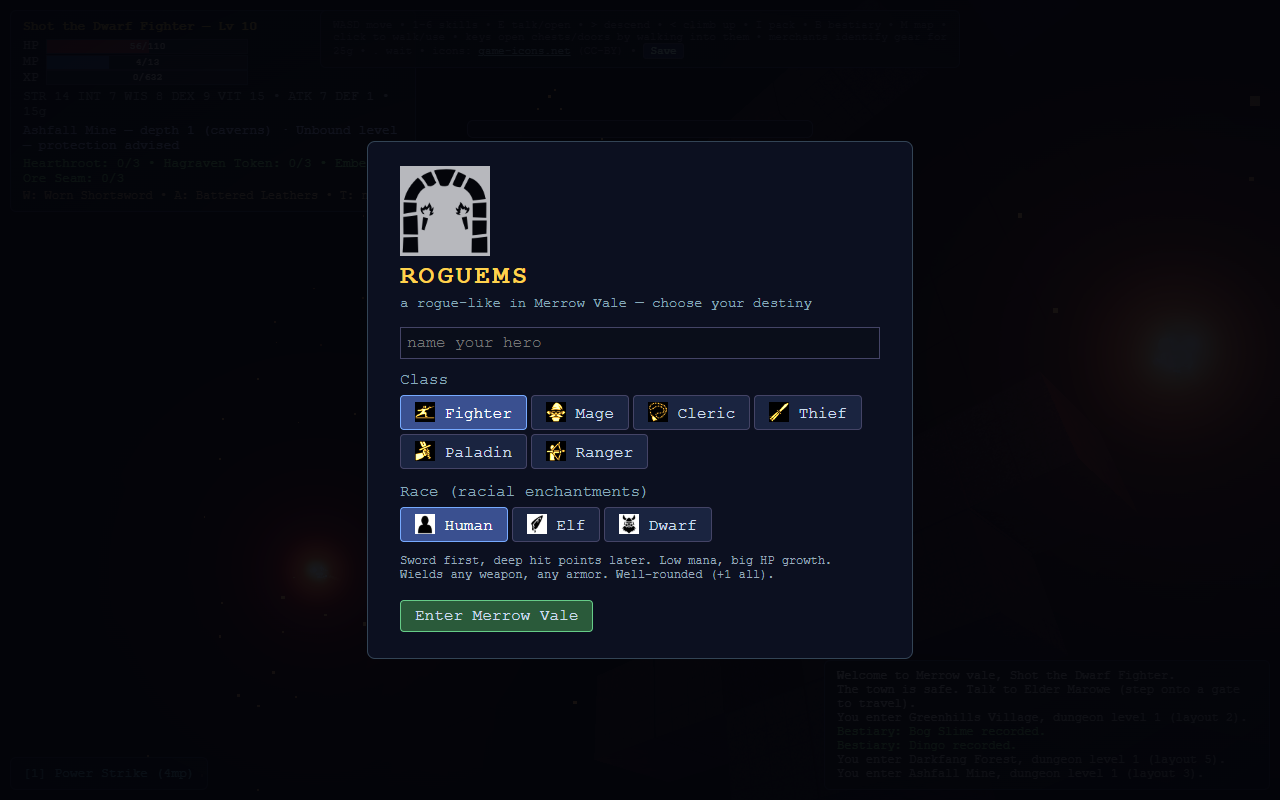
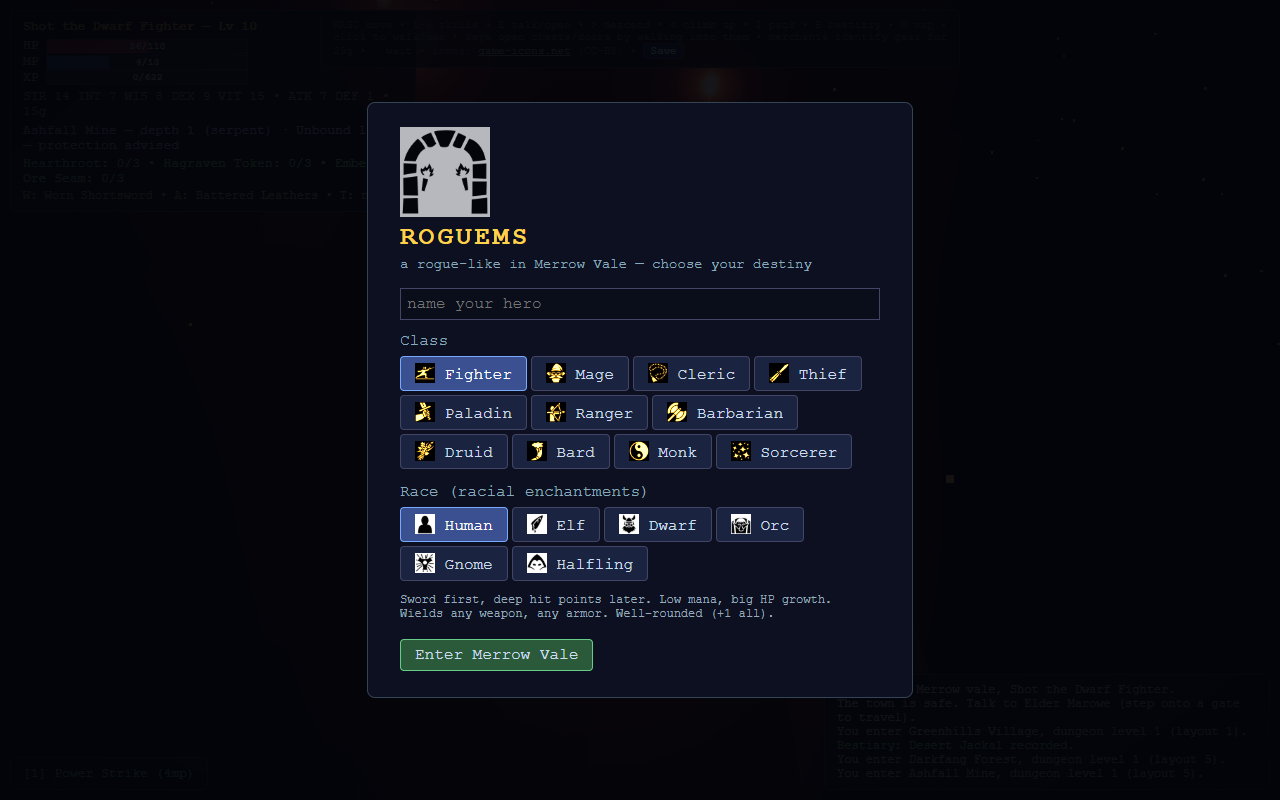
Roster expansion: 11 classes, 6 races, 21 new skills
New classes: Barbarian (deepest HP, floor-cracking melee), Druid (WIS
thorn-curses, vines, storms), Bard (inspire/lullaby/stun-song), Monk
(flurry, ki-mend, stun palm, whirlwind), Sorcerer (free blood-fire, wild
surge). All reuse the proven melee/bolt/multi-bolt/buff/self-heal verbs,
so no new engine risk.

New races: Orc (STR +2, VIT +1, INT -2, towering rig scale), Gnome
(INT +2, WIS +1, STR -2, short), Halfling (DEX +2, VIT +1, STR -2, short)
with per-race avatar stature.

- 21 new skills; multi-bolt now supports WIS-scaling + stun (Entangle,
  Storm Call, Crescendo, Dragon's Breath)
- CLASS_MODELS upgraded to per-class rigs + tints (Barbarian/Mage/Rogue/Knight)
- makePlayerVoxel applies race scale; halflings/gnomes stand shorter, orcs taller
- starter gear per class (heirloom greataxe, quarterstaff, concert razor...)
- 4 new sage tomes teach the wilder skills to any class
- fetched 3 new icons: yin-yang (monk), fist, hood (halfling)
- verify: +3 checks (roster grew to 11x6 all selectable; new-class rigs +
  orc strength + halfling stature + War Cry buff; Entangle multi-bolt stun)
  and the Rogue-roster check made a subset test; ALL 82 CHECKS PASS

Changed region(s): [[0.3125, 0.1562, 0.6875, 0.5938], [0.3125, 0.625, 0.6562, 0.8438], [0.5, 0.3125, 0.625, 0.3438]]

diff --git a/src/data.js b/src/data.js
@@ -3,7 +3,10 @@
 export const RACES = {
   human: { name: "Human", icon: "delapouite__character", enchant: { str: 1, int: 1, wis: 1, dex: 1, vit: 1 }, blurb: "Well-rounded (+1 all)." },
   elf:   { name: "Elf",   icon: "delapouite__elf-ear", enchant: { int: 2, dex: 1, vit: -1 }, blurb: "Clever and nimble, but frail (INT +2, DEX +1, VIT -1)." },
-  dwarf: { name: "Dwarf", icon: "delapouite__dwarf-face", enchant: { vit: 2, str: 1, dex: -1 }, blurb: "Stout and strong, but clumsy (VIT +2, STR +1, DEX -1)." }
+  dwarf: { name: "Dwarf", icon: "delapouite__dwarf-face", enchant: { vit: 2, str: 1, dex: -1 }, blurb: "Stout and strong, but clumsy (VIT +2, STR +1, DEX -1)." },
+  orc:     { name: "Orc",      icon: "skoll__troll",   enchant: { str: 2, vit: 1, int: -2 }, scale: 1.08, blurb: "Born of the hill tribes: crushing strength, thick blood, little patience for books (STR +2, VIT +1, INT -2)." },
+  gnome:   { name: "Gnome",    icon: "delapouite__glowing-artifact", enchant: { int: 2, wis: 1, str: -2 }, scale: 0.82, blurb: "Small hands, huge minds: tinkers and hedge-wizards (INT +2, WIS +1, STR -2)." },
+  halfling:{ name: "Halfling", icon: "lorc__hood",     enchant: { dex: 2, vit: 1, str: -2 }, scale: 0.75, blurb: "Quiet feet, quick fingers: hard to hit and harder to catch (DEX +2, VIT +1, STR -2)." }
 };
 
 export const CLASSES = {
@@ -61,6 +64,52 @@ export const CLASSES = {
     weapons: ["dagger", "sickle", "shortsword", "spear", "longsword", "shortbow", "longbow"],
     armors: ["rags", "leather", "studded"],
     blurb: "Deadly at range with a DEX-aimed shot. Bows and blades, leather only."
+  },
+  barbarian: {
+    name: "Barbarian", glyph: "@", color: "#c05a30", icon: "lorc__battle-axe",
+    base: { str: 14, int: 5, wis: 8, dex: 10, vit: 12 },
+    growth: { str: 1, vit: 1, other: 0.5 },
+    hpPer: 7, mpPer: 1, hpBase: 12,
+    skills: ["warcry", "berserk", "seismic-slam", "cleave"],
+    weapons: ["sickle", "spear", "scimitar", "longsword", "greataxe", "warhammer", "runesblade"],
+    armors: ["rags", "leather", "studded", "chain"],
+    blurb: "Hills-born fury: deepest HP in the realm, no armor past chain, and swings that shake the floor."
+  },
+  druid: {
+    name: "Druid", glyph: "@", color: "#6aa84f", icon: "delapouite__herbs-bundle",
+    base: { str: 9, int: 10, wis: 14, dex: 9, vit: 9 },
+    growth: { wis: 1, int: 1, other: 0.5 },
+    hpPer: 3, mpPer: 5, hpBase: 2,
+    skills: ["barkskin", "summon-thorns", "verdant-mend", "entangle", "storm-call"],
+    weapons: ["sickle", "spear", "shortbow", "staff"], armors: ["rags", "robes", "leather", "studded"],
+    blurb: "Wildwise: thorn-curses, creeping vines, and storms called down by WIS. No metal armor."
+  },
+  bard: {
+    name: "Bard", glyph: "@", color: "#e07ab0", icon: "delapouite__beer-horn",
+    base: { str: 8, int: 12, wis: 9, dex: 13, vit: 9 },
+    growth: { dex: 1, int: 1, other: 0.5 },
+    hpPer: 4, mpPer: 4, hpBase: 2,
+    skills: ["inspire", "lullaby", "discord", "martial-cadence", "crescendo"],
+    weapons: ["dagger", "sickle", "shortsword", "scimitar", "shortbow"], armors: ["rags", "robes", "leather", "studded"],
+    blurb: "Songs that steady allies and lullabies that drop foes cold. A blade arm and a spell tongue."
+  },
+  monk: {
+    name: "Monk", glyph: "@", color: "#d8a05a", icon: "delapouite__yin-yang",
+    base: { str: 10, int: 9, wis: 12, dex: 14, vit: 10 },
+    growth: { dex: 1, wis: 1, other: 0.5 },
+    hpPer: 5, mpPer: 3, hpBase: 3,
+    skills: ["flurry", "ki-mend", "stun-palm", "evasion", "whirlwind"],
+    weapons: ["staff", "spear", "dagger"], armors: ["rags", "robes", "leather"],
+    blurb: "Iron body, quick hands: flurry strikes, ki mending, and a palm that stops hearts."
+  },
+  sorcerer: {
+    name: "Sorcerer", glyph: "@", color: "#b06ae0", icon: "delapouite__sparkles",
+    base: { str: 7, int: 15, wis: 9, dex: 10, vit: 9 },
+    growth: { int: 1, vit: 1, other: 0.5 },
+    hpPer: 2, mpPer: 6, hpBase: 0,
+    skills: ["scorcher", "spell-ward", "wild-surge", "elemental-ward", "dragon-breath"],
+    weapons: ["dagger", "staff", "wand"], armors: ["rags", "robes"],
+    blurb: "Magic in the blood: free fire from level one and a wild surge that hits like a falling tower."
   }
 };
 
@@ -90,7 +139,33 @@ export const SKILLS = {
   "natures-whisper":{ name: "Nature's Whisper", level: 3, cost: 5, cd: 4, kind: "self-heal", power: 0.2, wis: true, desc: "Heal 20% max HP + WIS." },
   "hunters-mark":  { name: "Hunter's Mark", level: 4, cost: 4,  cd: 6,  kind: "buff", buff: { atk: 3, turns: 5 }, desc: "Mark your prey: ATK +3 for 5 turns." },
   "volley":        { name: "Volley",        level: 5, cost: 8,  cd: 5,  kind: "multi-bolt", power: 7, range: 6, count: 2, dex: true, desc: "7 + DEX damage to up to 2 foes." },
-  "elemental-ward":{ name: "Elemental Ward", level: 6, cost: 7, cd: 9,  kind: "buff", buff: { allRes: 2, turns: 14 }, desc: "All elemental resistance +2 for 14 turns." }
+  "elemental-ward":{ name: "Elemental Ward", level: 6, cost: 7, cd: 9,  kind: "buff", buff: { allRes: 2, turns: 14 }, desc: "All elemental resistance +2 for 14 turns." },
+  // --- barbarian ---
+  "warcry":        { name: "War Cry",         level: 1, cost: 4,  cd: 7,  kind: "buff", buff: { atk: 3, turns: 4 }, desc: "Rallying roar: ATK +3 for 4 turns." },
+  "seismic-slam":  { name: "Seismic Slam",    level: 5, cost: 9,  cd: 6,  kind: "melee-all", power: 1.6, desc: "The floor answers: 1.6x weapon damage to ALL adjacent foes." },
+  // --- druid ---
+  "barkskin":      { name: "Barkskin",        level: 1, cost: 5,  cd: 8,  kind: "buff", buff: { def: 4, turns: 6 }, desc: "Hide like oak: DEF +4 for 6 turns." },
+  "summon-thorns": { name: "Summon Thorns",   level: 2, cost: 5,  cd: 3,  kind: "bolt", power: 5, range: 4, stun: 1, wis: true, desc: "Brambles bite: 5 + WIS damage, stuns 1 turn." },
+  "verdant-mend":  { name: "Verdant Mend",    level: 3, cost: 5,  cd: 4,  kind: "self-heal", power: 0.2, wis: true, desc: "Moss and sap knit wounds: 20% max HP + WIS." },
+  "entangle":      { name: "Entangle",        level: 4, cost: 7,  cd: 5,  kind: "multi-bolt", power: 5, range: 5, count: 2, stun: 1, wis: true, desc: "Vines seize up to 2 foes: 5 + WIS damage, stun 1 turn." },
+  "storm-call":    { name: "Storm Call",      level: 6, cost: 12, cd: 6,  kind: "multi-bolt", power: 7, range: 6, count: 3, wis: true, desc: "Thunder answers: 7 + WIS damage to up to 3 foes." },
+  // --- bard ---
+  "inspire":       { name: "Inspire",         level: 1, cost: 4,  cd: 8,  kind: "buff", buff: { atk: 2, dex: 2, turns: 8 }, desc: "A rousing refrain: ATK +2, DEX +2 for 8 turns." },
+  "lullaby":       { name: "Lullaby",         level: 2, cost: 5,  cd: 4,  kind: "bolt", power: 3, range: 5, stun: 2, wis: true, desc: "A soft song: 3 + WIS damage, stuns 2 turns." },
+  "discord":       { name: "Discord",         level: 4, cost: 6,  cd: 3,  kind: "bolt", power: 7, range: 5, desc: "A clashing chord: 7 + INT damage." },
+  "martial-cadence":{ name: "Martial Cadence", level: 6, cost: 8,  cd: 9,  kind: "buff", buff: { atk: 4, turns: 4 }, desc: "March-time fury: ATK +4 for 4 turns." },
+  "crescendo":     { name: "Crescendo",       level: 7, cost: 11, cd: 6,  kind: "multi-bolt", power: 6, range: 5, count: 3, desc: "The song peaks: 6 + INT damage to up to 3 foes." },
+  // --- monk ---
+  "flurry":        { name: "Flurry",          level: 1, cost: 5,  cd: 4,  kind: "melee-all", power: 0.9, desc: "A blur of fists: 0.9x weapon damage to ALL adjacent foes." },
+  "ki-mend":       { name: "Ki Mend",         level: 2, cost: 5,  cd: 5,  kind: "self-heal", power: 0.2, wis: true, desc: "Breath and blood: 20% max HP + WIS." },
+  "stun-palm":     { name: "Stun Palm",       level: 3, cost: 6,  cd: 4,  kind: "bolt", power: 4, range: 1, stun: 2, dex: true, desc: "A strike between the ribs: 4 + DEX damage, stuns 2 turns." },
+  "evasion":       { name: "Evasion",         level: 4, cost: 6,  cd: 8,  kind: "buff", buff: { def: 6, turns: 4 }, desc: "Like water: DEF +6 for 4 turns." },
+  "whirlwind":     { name: "Whirlwind",       level: 7, cost: 10, cd: 6,  kind: "melee-all", power: 1.5, desc: "Spinning palms: 1.5x weapon damage to ALL adjacent foes." },
+  // --- sorcerer ---
+  "scorcher":      { name: "Scorcher",        level: 1, cost: 2,  cd: 0,  kind: "bolt", power: 5, range: 5, desc: "Blood-fire: 5 + INT damage. Cheap and free of cooldown." },
+  "spell-ward":    { name: "Spell Ward",      level: 3, cost: 6,  cd: 8,  kind: "buff", buff: { def: 5, turns: 4 }, desc: "A shimmering shell: DEF +5 for 4 turns." },
+  "wild-surge":    { name: "Wild Surge",      level: 4, cost: 9,  cd: 6,  kind: "bolt", power: 10, range: 4, desc: "Raw magic lurches loose: 10 + INT damage." },
+  "dragon-breath": { name: "Dragon's Breath", level: 7, cost: 12, cd: 6,  kind: "multi-bolt", power: 7, range: 4, count: 3, desc: "A cone of fire: 7 + INT damage to up to 3 foes." }
 };
 
 // Spellbooks teach their skill to any class at the required level.
@@ -101,7 +176,11 @@ export const SPELLBOOKS = {
   "book-barrier":{ name: "Book of Arcane Barrier",teaches: "arcane-barrier", reqLevel: 4, glyph: "=", color: "#a0ffd8", icon: "delapouite__spell-book" },
   "book-heal":   { name: "Book of Healing",     teaches: "heal",   reqLevel: 2, glyph: "=", color: "#c8ffc8", icon: "delapouite__spell-book" },
   "book-volley": { name: "Book of Volley",      teaches: "volley", reqLevel: 5, glyph: "=", color: "#ffd8a0", icon: "delapouite__spell-book" },
-  "book-ward":   { name: "Book of Warding",     teaches: "elemental-ward", reqLevel: 6, glyph: "=", color: "#b0ffd8", icon: "delapouite__spell-book" }
+  "book-ward":   { name: "Book of Warding",     teaches: "elemental-ward", reqLevel: 6, glyph: "=", color: "#b0ffd8", icon: "delapouite__spell-book" },
+  "book-entangle":{ name: "Book of Entangling", teaches: "entangle",     reqLevel: 4, glyph: "=", color: "#a0d8a0", icon: "delapouite__spell-book" },
+  "book-lullaby": { name: "Book of Lullabies",  teaches: "lullaby",      reqLevel: 2, glyph: "=", color: "#d8b0e8", icon: "delapouite__spell-book" },
+  "book-warcry":  { name: "Book of War Cry",    teaches: "warcry",       reqLevel: 1, glyph: "=", color: "#e0a080", icon: "delapouite__spell-book" },
+  "book-dragon":  { name: "Book of Dragon Fire",teaches: "dragon-breath",reqLevel: 7, glyph: "=", color: "#ff9060", icon: "delapouite__spell-book" }
 };
 
 export const WEAPONS = [
@@ -444,5 +523,9 @@ export const SHOP = [
   { key: "book:book-frost", name: "Book of Frost Shock", price: 180, vendor: "sage" },
   { key: "book:book-heal", name: "Book of Healing", price: 160, vendor: "sage" },
   { key: "book:book-smite", name: "Book of Divine Smite", price: 220, vendor: "sage" },
-  { key: "book:book-volley", name: "Book of Volley", price: 210, vendor: "sage" }
+  { key: "book:book-volley", name: "Book of Volley", price: 210, vendor: "sage" },
+  { key: "book:book-warcry", name: "Book of War Cry", price: 90, vendor: "sage" },
+  { key: "book:book-lullaby", name: "Book of Lullabies", price: 140, vendor: "sage" },
+  { key: "book:book-entangle", name: "Book of Entangling", price: 180, vendor: "sage" },
+  { key: "book:book-dragon", name: "Book of Dragon Fire", price: 260, vendor: "sage" }
 ];

diff --git a/src/core.js b/src/core.js
@@ -540,9 +540,10 @@ export class Core {
         const targets = near.slice(0, s.count);
         if (!targets.length) { p.mp += s.cost; p.cooldowns[id] = 2; this.say("No targets in range.", "#ff9090"); return false; }
         for (const t of targets) {
-          const dmg = s.power + (s.dex ? e.dex : e.int) + this.rng() * 3 | 0;
+          const dmg = s.power + (s.dex ? e.dex : s.wis ? e.wis : e.int) + this.rng() * 3 | 0;
           t.hp -= dmg;
           this.say(`${s.name} arcs through ${t.name} for ${dmg}!`, s.dex ? "#a0e0a0" : "#c0a0ff");
+          if (s.stun && t.hp > 0) t.stun = s.stun;
           if (t.hp <= 0) this.killMonster(t);
         }
         break;
@@ -1110,16 +1111,30 @@ export class Core {
 // ---------- item generation ----------
 
 function starterWeapon(classId) {
-  const base = classId === "mage" ? { id: "staff", name: "Apprentice Staff", dmg: 3, icon: "delapouite__wizard-face" } :
-    classId === "cleric" ? { id: "sickle", name: "Ceremonial Sickle", dmg: 4, icon: "delapouite__cleaver" } :
-      { id: "shortsword", name: "Worn Shortsword", dmg: 5, icon: "delapouite__ancient-sword" };
+  const byClass = {
+    mage: { id: "staff", name: "Apprentice Staff", dmg: 3, icon: "delapouite__wizard-face" },
+    cleric: { id: "sickle", name: "Ceremonial Sickle", dmg: 4, icon: "delapouite__cleaver" },
+    barbarian: { id: "greataxe", name: "Heirloom Greataxe", dmg: 8, icon: "lorc__battle-axe" },
+    druid: { id: "sickle", name: "Harvesting Sickle", dmg: 4, icon: "delapouite__cleaver" },
+    bard: { id: "dagger", name: "Concert Razor", dmg: 3, icon: "delapouite__butterfly-knife" },
+    monk: { id: "staff", name: "Training Quarterstaff", dmg: 3, icon: "delapouite__yin-yang" },
+    sorcerer: { id: "dagger", name: "Blooded Knife", dmg: 3, icon: "delapouite__sparkles" }
+  };
+  const base = byClass[classId] || { id: "shortsword", name: "Worn Shortsword", dmg: 5, icon: "delapouite__ancient-sword" };
   return { uid: nextUid(), kind: "weapon", slot: "weapon", glyph: "/", color: "#d0d0e0", affixes: [], cursed: false, ...base };
 }
 function starterArmor(classId) {
-  const base = classId === "mage" ? { id: "robes", name: "Sage Robes", def: 1, icon: "lorc__robe" } :
-    classId === "cleric" ? { id: "leather", name: "Pilgrim Leathers", def: 2, icon: "delapouite__leather-armor" } :
-      { id: "leather", name: "Battered Leathers", def: 2, icon: "delapouite__leather-armor" };
-  return { uid: nextUid(), kind: "armor", slot: "armor", glyph: "[", color: "#c0a070", affixes: [], cursed: false, ...base };
+  const byClass = {
+    mage: { id: "robes", name: "Sage Robes", def: 1, icon: "lorc__robe" },
+    cleric: { id: "leather", name: "Pilgrim Leathers", def: 2, icon: "delapouite__leather-armor" },
+    barbarian: { id: "leather", name: "Wolfspelt Cloak", def: 2, icon: "delapouite__fur-shirt" },
+    druid: { id: "leather", name: "Barkhide Vest", def: 2, icon: "delapouite__leather-armor" },
+    bard: { id: "leather", name: "Traveling Silks", def: 2, icon: "delapouite__leather-armor" },
+    monk: { id: "rags", name: "Wrapping Bandages", def: 1, icon: "delapouite__herbs-bundle" },
+    sorcerer: { id: "robes", name: "Embroidered Silks", def: 1, icon: "lorc__robe" }
+  };
+  const base = { id: "leather", name: "Battered Leathers", def: 2, icon: "delapouite__leather-armor" };
+  return { uid: nextUid(), kind: "armor", slot: "armor", glyph: "[", color: "#c0a070", affixes: [], cursed: false, ...(byClass[classId] || base) };
 }
 function makePotion() {
   return { uid: nextUid(), kind: "potion", name: "Red Potion", glyph: "!", color: "#ff6060", icon: "delapouite__health-potion", ident: true };

diff --git a/src/game.js b/src/game.js
@@ -705,8 +705,17 @@ const NPC_MODELS = {
   sage: { model: "Mage", tint: 0xb48fd8 }
 };
 const CLASS_MODELS = {
-  fighter: "Knight", paladin: "Knight", mage: "Mage", cleric: "Mage",
-  thief: "Rogue", ranger: "Barbarian"
+  fighter: { model: "Knight" },
+  paladin: { model: "Knight", tint: 0xd8c8a8 },
+  barbarian: { model: "Barbarian" },
+  ranger: { model: "Barbarian", tint: 0xa8c08a },
+  mage: { model: "Mage", tint: 0xc8d4ff },
+  cleric: { model: "Mage", tint: 0xf0e8c8 },
+  druid: { model: "Mage", tint: 0xa8d09a },
+  sorcerer: { model: "Mage", tint: 0xd4b0f0 },
+  thief: { model: "Rogue", tint: 0x9aa0b8 },
+  bard: { model: "Rogue", tint: 0xf0b8d0 },
+  monk: { model: "Rogue", tint: 0xe0c0a0 }
 };
 
 const SPECIES = {
@@ -1035,10 +1044,11 @@ function makeProp(e, dims) {
   return g;
 }
 
-function makePlayerVoxel(classId, color) {
-  const modelName = CLASS_MODELS[classId];
-  if (modelName && GLB[modelName]) {
-    const m = modelInstance(modelName, 1.4, true);
+function makePlayerVoxel(classId, color, raceId) {
+  const def = CLASS_MODELS[classId];
+  const raceScale = (raceId && RACES[raceId] && RACES[raceId].scale) || 1;
+  if (def && def.model && GLB[def.model]) {
+    const m = modelInstance(def.model, 1.4 * raceScale, true, def.tint);
     if (m) { addBlobShadow(m, 0.36); applyShadows(m); return m; }
   }
   const g = makeVoxel("hero", "@", color);
@@ -1068,6 +1078,7 @@ function makePlayerVoxel(classId, color) {
     part(g, mat, 0.07, 0.07, 0.55, -0.32, 0, 0.58);
     partS(g, mat, 0.16, -0.32, 0, 0.92);
   }
+  g.scale.setScalar(raceScale);
   addBlobShadow(g, 0.36);
   applyShadows(g);
   return g;
@@ -1207,7 +1218,7 @@ function rebuildEntities() {
     if (!seen.has(key)) { entityGroup.remove(obj); pool.delete(key); }
   }
   if (!playerSprite) {
-    playerSprite = makePlayerVoxel(core.player.classId, CLASSES[core.player.classId].color);
+    playerSprite = makePlayerVoxel(core.player.classId, CLASSES[core.player.classId].color, core.player.raceId);
     playerSprite.userData.voxel = true;
     const pf0 = core.player.facing || { dx: 1, dy: 0 };
     playerSprite.rotation.z = facingYaw(pf0.dx, pf0.dy);
@@ -1609,6 +1620,7 @@ window.game = {
   descend: () => { core.act({ type: "descend" }); afterAction(); },
   ascend: () => { core.act({ type: "ascend" }); afterAction(); },
   heroAngle: () => playerSprite ? playerSprite.rotation.z : null,
+  heroScale: () => playerSprite ? +playerSprite.scale.x.toFixed(2) : null,
   setBloom: s => { bloomPass.strength = s; return bloomPass.strength; },
   debugPost: () => ({
     rtType: composer.renderTarget1.texture.type,
